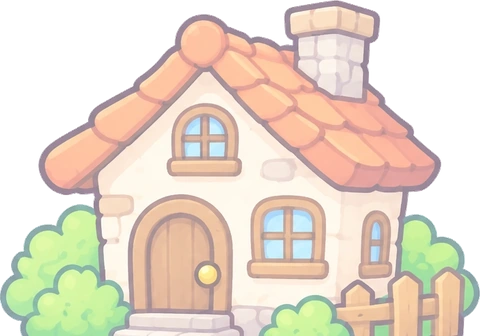
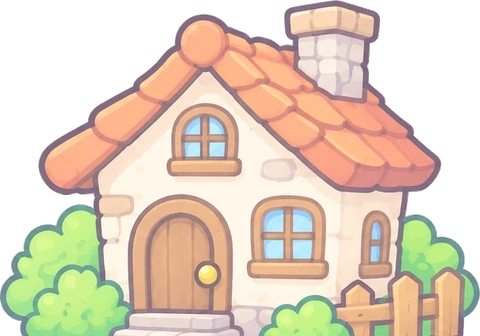
物語:門のたてを少し・家の白を少し・第N話を少し上・檻はパパママの所だけすかす(未公開)

Changed region(s): [[0.0, 0.0, 1.0, 1.0], [0.5312, 0.5952, 0.5625, 0.625], [0.125, 0.8929, 0.1562, 0.9226]]

diff --git a/src/live2d/storyboard.js b/src/live2d/storyboard.js
@@ -34,7 +34,7 @@ export const PROLOGUE = { id: 'pro', code: 'P', label: 'プロローグ', scenes
     foes: [{ art: 'dragon_2', frames: DRAGON_FLY, fps: 4, h: 30, hTo: 14, from: [26, 14], to: [-30, -12], flip: false }],
     actors: { papa: A(11, { s: BACK, y: BACKY, ...SURPRISE, faces: HOLD('surprised'), cues: [CUE('wave', 0.2, 2.6)], to: { x: -24, y: 78, s: 0.3 } }), mama: A(38, { s: BACK, y: BACKY, ...SURPRISE, faces: HOLD('surprised'), cues: [CUE('wave', 0.2, 2.6)], to: { x: -34, y: 74, s: 0.3 } }), flori: A(74, { s: 1.1, mood: 'しょんぼり', anim: 'sway', calm: true, faces: HOLD('wrong') }) } },
   { bgm: 'sad', dur: 6.4, bg: 'castle', lines: [L('パパフロリ', 'フロリ助けてくれ〜!', 0), L('ママフロリ', 'ひらめきの力を信じてネ!', 3.2)],
-    marks: [{ art: 'fx_cage', alpha: 0.55, at: 0, to: 99, x: 65, y: 88, h: 32, still: true }],
+    marks: [{ art: 'fx_cage', mask: 'radial-gradient(ellipse 34% 36% at 50% 70%, rgba(0,0,0,.28) 0%, rgba(0,0,0,.28) 72%, #000 100%)', at: 0, to: 99, x: 65, y: 88, h: 32, still: true }],
     actors: { papa: A(55, { y: 0, s: 0.4, mood: 'しょんぼり', faces: HOLD('wrong'), cues: [CUE('wave', 0.5, 2.6)] }), mama: A(75, { y: 6, s: 0.4, mood: 'しょんぼり', faces: HOLD('wrong'), cues: [CUE('wave', 1.2, 2.6)] }) } },
   { bgm: 'resolve', dur: 4.8, bg: 'dusk', lines: [L('フロリ', '任せて! ひらめきクイズでドラゴンを倒してパパとママを助けるヨ!')], hops: HOPS(4, 0.3, 1.2),
     actors: { flori: A(50, { s: 1.6, ...BRAVE, cues: [CUE('cheer', 0.3, 2.6)] }) } },
@@ -82,16 +82,16 @@ export const EP2 = { id: 'ep2', code: '②', label: '②カエル', scenes: [
 ] };
 
 export const EP3 = { id: 'ep3', code: '③', label: '③決戦前', scenes: [
-  { bgm: 'alarm', dur: 6.6, bg: 'gate', card: 'card_ep3', props: [['deco_gate', 51, null, 40, { ground: 15, w: 34 }]], lines: [L('', '第3話「決戦の前に」\nお城の門の前にサソリの門番が塞がっている!')],
+  { bgm: 'alarm', dur: 6.6, bg: 'gate', card: 'card_ep3', props: [['deco_gate', 51, null, 36, { ground: 15, w: 34, }]], lines: [L('', '第3話「決戦の前に」\nお城の門の前にサソリの門番が塞がっている!')],
     foes: [{ art: 'scorpion_guard', frames: ['scorpion_guard', 'scorpion_claws_up'], fps: 2, h: 16, ground: true, delay: 3.0, from: [124, 0], to: [70, 0] }],
     marks: [{ art: 'fx_exclaim', at: 4.4, to: 6.4, x: 28, y: 44, h: 14 }], actors: { flori: A(-40, { s: 1.2, walk: true, delay: 1.6, to: { x: 28 }, faces: [{ at: 0, to: 4.4 }, { at: 4.4, pose: 'surprised' }], cues: [CUE('raise', 4.4, 2.4)], anim: 'shock', animAt: 4.4 }) } },
-  { bgm: 'battle', dur: 4.2, bg: 'gate', props: [['deco_gate', 51, null, 40, { ground: 15, w: 34 }]], lines: [L('フロリ', 'ひらめきを全部ぶつけて… えいっ!')],
+  { bgm: 'battle', dur: 4.2, bg: 'gate', props: [['deco_gate', 51, null, 36, { ground: 15, w: 34, }]], lines: [L('フロリ', 'ひらめきを全部ぶつけて… えいっ!')],
     foes: [{ art: 'scorpion_guard', art2: 'scorpion_hit', swapAt: 1.4, hold: 1.4, h: 16, ground: true, from: [70, 0], to: [118, 0] }], flash: 1.4, shake: [1.4, 0.7], hops: [{ at: 1.2, who: 'flori' }],
     marks: [{ art: 'fx_impact', at: 1.3, to: 2.1, x: 62, y: 80, h: 22 }],
     actors: { flori: A(28, { s: 1.2, ...GRIT, faces: [{ at: 0 }], walk: true, to: { x: 42 } }) } },
-  { bgm: 'joy', dur: 5.4, bg: 'gate', props: [['deco_gate', 51, null, 40, { ground: 15, w: 34 }]], lines: [L('フロリ', 'やった! サソリを追い払ったヨ!', 0), L('フロリ', 'さあお城の奥に進もう!', 2.8)],
+  { bgm: 'joy', dur: 5.4, bg: 'gate', props: [['deco_gate', 51, null, 36, { ground: 15, w: 34, }]], lines: [L('フロリ', 'やった! サソリを追い払ったヨ!', 0), L('フロリ', 'さあお城の奥に進もう!', 2.8)],
     actors: { flori: A(42, { s: 1.2, ...JOY, faces: [{ at: 0, to: 2.8, pose: 'smile' }, { at: 2.8, pose: 'nikkori' }], cues: [CUE('cheer', 0.2, 2.6, 2.6), CUE('flap', 3.0, 2.6)], walk: true, to: { x: 62 } }) } },
-  { bgm: 'walk', dur: 5.4, bg: 'gate', props: [['deco_gate', 51, null, 40, { ground: 15, w: 34 }]], lines: [L('', '門の奥から、ぼうっと赤い光が…。フロリは、そっとお城の中へ進んでいく。')],
+  { bgm: 'walk', dur: 5.4, bg: 'gate', props: [['deco_gate', 51, null, 36, { ground: 15, w: 34, }]], lines: [L('', '門の奥から、ぼうっと赤い光が…。フロリは、そっとお城の中へ進んでいく。')],
     actors: { flori: A(62, { s: 1.2, ...SMILE, faces: HOLD('nikkori'), cues: [CUE('flap', 0.4, 2.6)], walk: true, to: { x: 46, s: 0.7 } }) } },
   { bgm: 'alarm', dur: 5, bg: 'castle', lines: [L('', '警告! お城の奥からドラゴンの声が響く…!')],
     foes: [{ art: 'dragon_5', h: 30, hTo: 46, from: [124, 26], to: [62, 24], flip: false, shake: true }], shake: [0.3, 1.4],
@@ -126,12 +126,12 @@ export const EP4 = { id: 'ep4', code: '④', label: '④ドラゴン', scenes: [
 
 export const ENDING = { id: 'epi', code: 'E', label: 'エンディング', scenes: [
   { bgm: 'warm', dur: 11.0, bg: 'castle', lines: [L('フロリ', 'パパ! ママ! お待たせ!', 0), L('パパフロリ', 'フロリ! 来てくれたんだね!', 3.8), L('ママフロリ', 'きっと来てくれると信じてたわ!', 7.4)],
-    marks: [{ art: 'fx_cage', alpha: 0.55, at: 0, to: 99, x: 65, y: 91, h: 32, still: true }],
+    marks: [{ art: 'fx_cage', mask: 'radial-gradient(ellipse 34% 36% at 50% 70%, rgba(0,0,0,.28) 0%, rgba(0,0,0,.28) 72%, #000 100%)', at: 0, to: 99, x: 65, y: 91, h: 32, still: true }],
     actors: { flori: A(-40, { s: 1.0, faces: [{ at: 0 }], cues: [CUE('expr', 0.4), CUE('wave', 1.8), CUE('expr', 4.9), CUE('flap', 6.2), CUE('expr', 8.8), CUE('wave', 9.6)], walk: true, len: 2.0, to: { x: 24 } }),
       papa: A(55, { y: 0, s: 0.4, mood: 'こまった', calm: true, faces: [{ at: 0, to: 3.8, pose: 'wrong' }, { at: 3.8, pose: 'smile' }] }),
       mama: A(75, { y: 0, s: 0.4, mood: 'こまった', calm: true, faces: [{ at: 0, to: 7.4, pose: 'wrong' }, { at: 7.4, pose: 'smile' }] }) } },
   { bgm: 'warm', dur: 7.0, bg: 'castle', lines: [L('フロリ', 'カギを手に入れたよ! 今から出すね!', 0), L('フロリ', 'えいっ! 檻が開いたヨ!', 4.2)],
-    marks: [{ art: 'fx_cage', alpha: 0.55, at: 0, to: 5.0, x: 65, y: 91, h: 32, still: true }],
+    marks: [{ art: 'fx_cage', mask: 'radial-gradient(ellipse 34% 36% at 50% 70%, rgba(0,0,0,.28) 0%, rgba(0,0,0,.28) 72%, #000 100%)', at: 0, to: 5.0, x: 65, y: 91, h: 32, still: true }],
     foes: [{ art: 'key', h: 9, ground: true, len: 3.2, until: 5.0, from: [30, 19], to: [38, 19] }],
     actors: { flori: A(18, { s: 0.9, faces: [{ at: 0 }], handSide: 'L', cues: [CUE('raise1', 0.2), CUE('expr', 4.0, 1.8)], walk: true, len: 3.2, to: { x: 26 } }),
       papa: A(55, { y: 0, s: 0.4, mood: 'こまった', calm: true, faces: HOLD('smile') }), mama: A(75, { y: 0, s: 0.4, mood: 'こまった', calm: true, faces: HOLD('smile') }) } },

diff --git a/src/live2d/story-movie.html b/src/live2d/story-movie.html
@@ -49,7 +49,7 @@ body{font:16px system-ui,"Hiragino Sans","Yu Gothic",sans-serif;user-select:none
 #card{display:none;position:absolute;left:50%;top:calc(var(--u)*12);width:84%;transform:translateX(-50%);opacity:0;z-index:4;filter:drop-shadow(0 calc(var(--u)*.6) calc(var(--u)*.8) rgba(0,0,0,.3))}
 #card-bg{display:block;width:100%;height:auto}
 #card-text{position:absolute;display:flex;flex-direction:column;align-items:center;justify-content:center;text-align:center;font-family:"Zen Maru Gothic","Hiragino Maru Gothic ProN","Yu Gothic UI",sans-serif;font-weight:900;gap:calc(var(--u)*.2);line-height:1.15}
-#card-no{position:relative;top:calc(var(--u)*-5.2);white-space:nowrap;font-size:calc(var(--u)*8.2);letter-spacing:.08em;color:#ff7a4d;-webkit-text-stroke:calc(var(--u)*1.1) #fff;paint-order:stroke fill;text-shadow:0 calc(var(--u)*.5) 0 #c85a2a}
+#card-no{position:relative;top:calc(var(--u)*-6.6);white-space:nowrap;font-size:calc(var(--u)*8.2);letter-spacing:.08em;color:#ff7a4d;-webkit-text-stroke:calc(var(--u)*1.1) #fff;paint-order:stroke fill;text-shadow:0 calc(var(--u)*.5) 0 #c85a2a}
 #card-name{text-wrap:balance;font-size:calc(var(--u)*4.7);color:#6a3f22;-webkit-text-stroke:calc(var(--u)*.9) #fff;paint-order:stroke fill;text-shadow:0 calc(var(--u)*.4) 0 rgba(160,110,60,.55)}
 #card.show{animation:cardIn 3.4s ease forwards}
 @keyframes cardIn{0%{opacity:0;transform:translate(-50%,calc(var(--u)*-3))}12%{opacity:1;transform:translate(-50%,0)}80%{opacity:1}100%{opacity:0}}

diff --git a/src/live2d/story-movie.js b/src/live2d/story-movie.js
@@ -222,7 +222,7 @@ function setScene(i) {
   title.classList.toggle('on', Boolean(sc.title || sc.titleArt));
   cardEl.style.display = sc.card ? 'block' : 'none';
   if (sc.card) { cardBg.src = artUrl(sc.card); const t = CARD_TEXT[sc.card] || ['', '']; cardNo.textContent = t[0]; cardName.textContent = t[1]; Object.assign(cardText.style, CARD_BOX[sc.card] || {}); cardEl.style.opacity = 0; }
-  marksEl.innerHTML = (sc.marks || []).map(m => `<img class="mark" alt="" src="${artUrl(m.art)}" style="left:${m.x}%;top:calc(var(--u)*${m.y});height:calc(var(--u)*${m.h})">`).join('');
+  marksEl.innerHTML = (sc.marks || []).map(m => `<img class="mark" alt="" src="${artUrl(m.art)}" style="left:${m.x}%;top:calc(var(--u)*${m.y});height:calc(var(--u)*${m.h});${m.mask ? `-webkit-mask-image:${m.mask};mask-image:${m.mask}` : ''}">`).join('');
   document.getElementById('cap').style.visibility = sc.lines ? 'visible' : 'hidden';
   foesEl.innerHTML = (sc.foes || []).map(f => `<img class="foe" alt="" src="${artUrl(f.art)}">`).join('');
   partsEl.innerHTML = '';

diff --git a/docs/decisions.md b/docs/decisions.md
@@ -1801,3 +1801,4 @@ scheme.md の「未定の事項」を決めたらここに追記する。
 - 追記(B、2026-11-18)利用者の指示:家をもっと大きく・明るく(ムービーの中で brightness)。札の文字を もっと大きく・かわいく(丸ゴシック・ふちどり・オレンジの数字)。門(deco_gate)を、指定の位置・大きさ(x46%・高さ30)に置き、ふちの白いがびがびを取った。檻の場面のたいまつを取り、檻を少しすかした(alpha 0.82。`storyboard.js` の marks `alpha`)。
 - 追記(B、2026-11-18)門を すこし右(x51)・たてに のばし(高さ40・はば34。`storyboard.js` の props `w`)・たいまつ2つを とった。札は「ーー第1話ーー」の形。家は もっと明るく(brightness 1.5)。檻:絵を つくりなおして(白い ふちの半とうめいを やめ、すきまだけ とうめい)、パパ・ママが うすく見えないようにした(パパ・ママ自身は すかしていない=不透明度1。檻だけ 0.75)。
 - 追記(B、2026-11-18、やりなおし)門を すこし下へ(ground 15)。札:「ーー」をやめて、「第N話」を、巻物の上のふちの まん中に ちょっと かさねた。家:ほかの色をのせずに、絵そのものに 白だけを5割まぜて 明るく(`house.webp`。CSSのフィルターは やめた)。檻:絵の色は そのまま(端の色を とらない)。背景と すきまの白だけ とうめいにして、檻ぜんたいを おなじように すかす(alpha 0.55)。
+- 追記(B、2026-11-18)門のたてを すこしちぢめた(高さ40→36)。家の白を すこしへらした(まぜる白 5割→3.8割)。第N話を すこし上へ。檻:ぜんたいを すかすのを やめて、パパ・ママのいる ところだけ すかした(`storyboard.js` の marks `mask`。まるい すかし)。
